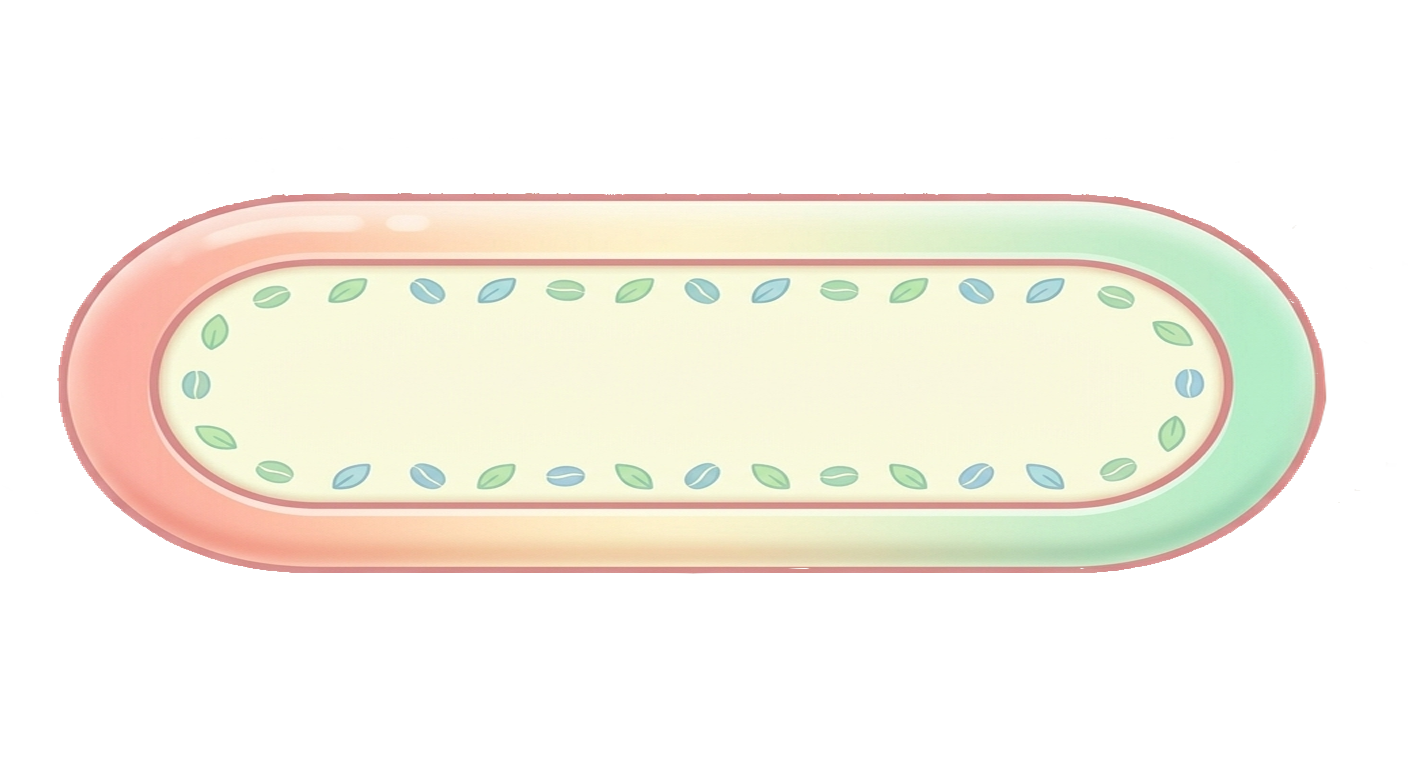
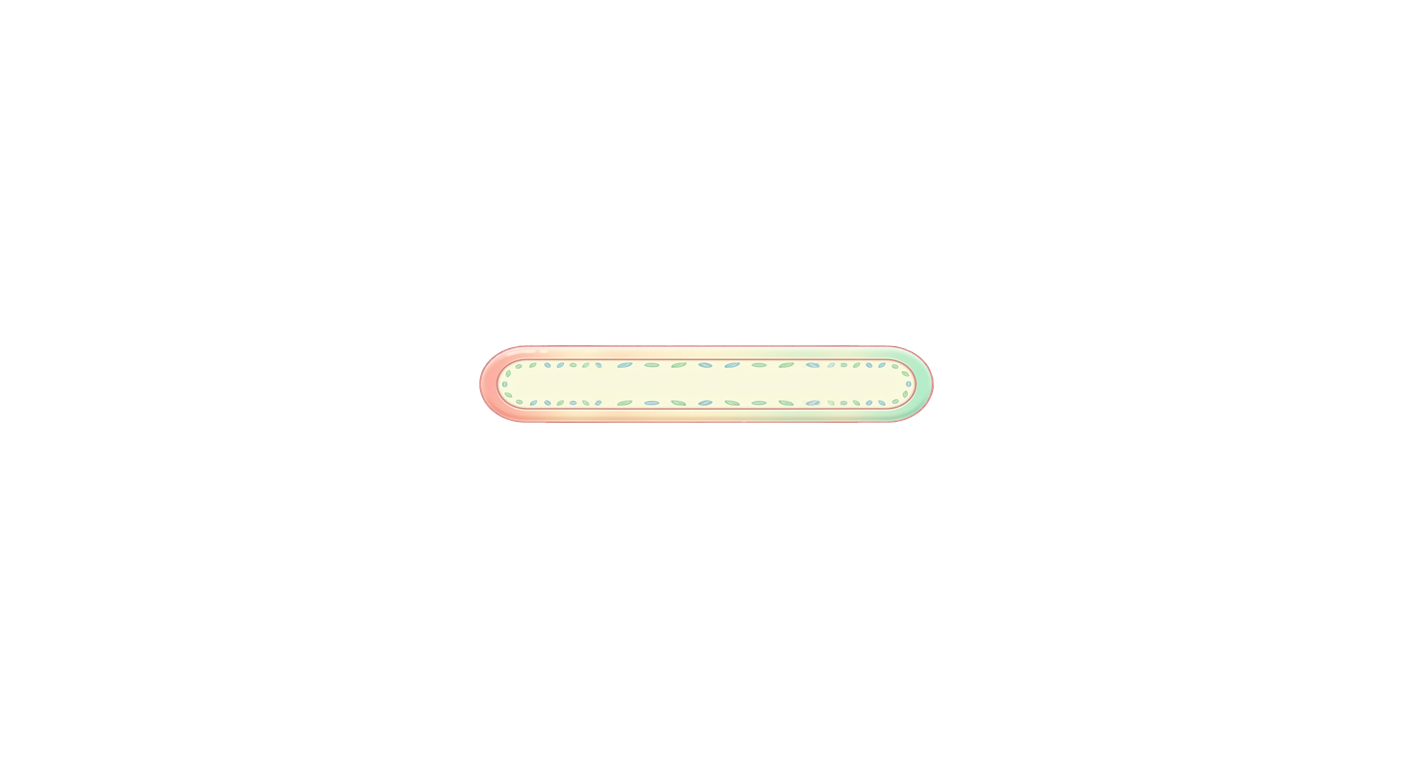
fix: botões + corações

diff --git a/script.js b/script.js
@@ -83,20 +83,28 @@ function desenharCoracao(x, y, tamanho) {
     push();
     translate(x, y);
     
-    // metade esquerda do coração
-    beginShape();
-    vertex(0, -tamanho * 0.25);
-    bezierVertex(-tamanho * 0.5, -tamanho * 0.75, -tamanho, -tamanho * 0.25, -tamanho * 0.05, tamanho * 0.45);
-    vertex(0, tamanho * 0.55);
-    endShape(CLOSE);
+    noStroke(); 
+    for (let i = 0; i < 2; i++) {
+        beginShape();
+        vertex(0, -tamanho * 0.25);
+        bezierVertex(-tamanho * 0.5, -tamanho * 0.75, -tamanho, -tamanho * 0.25, -tamanho * 0.05, tamanho * 0.45);
+        vertex(0, tamanho * 0.55);
+        endShape(CLOSE);
+        scale(-1, 1);
+    }
     
-    // metade direita espelhada no eixo X
-    scale(-1, 1);
-    beginShape();
-    vertex(0, -tamanho * 0.25);
-    bezierVertex(-tamanho * 0.5, -tamanho * 0.75, -tamanho, -tamanho * 0.25, -tamanho * 0.05, tamanho * 0.45);
-    vertex(0, tamanho * 0.55);
-    endShape(CLOSE);
+    noFill();
+    stroke('#4A3526');
+    strokeWeight(2.5);
+    
+    for (let i = 0; i < 2; i++) {
+        beginShape();
+        vertex(0, -tamanho * 0.25);
+        bezierVertex(-tamanho * 0.5, -tamanho * 0.75, -tamanho, -tamanho * 0.25, -tamanho * 0.05, tamanho * 0.45);
+        vertex(0, tamanho * 0.55);
+        endShape();
+        scale(-1, 1);
+    }
     
     pop();
 }
@@ -631,7 +639,6 @@ class MotorJogo {
         pop();
         desenharTexto(`PONTOS: ${this.pontuacao}`, 170, height - 80, 28);
 
-        // corações2, vou ajustar mais tarde pq fiz a funçao
         for (let i = 0; i < 5; i++) {
             if (i < this.vidas) {
                 fill('#ff2a4b'); 
@@ -748,9 +755,10 @@ class MotorJogo {
 
     desenharBotoesInterface() {
         push();
-        imageMode(CORNER);
+        imageMode(CENTER);
         for (let i = 0; i < this.botoes.length; i++) {
             let b = this.botoes[i];
+            
             let focoMouse = (mouseX > b.x && mouseX < b.x + b.w && mouseY > b.y && mouseY < b.y + b.h);
             
             if (focoMouse && tint) {
@@ -759,8 +767,10 @@ class MotorJogo {
                 noTint();
             }
             
-            image(imgBotao, b.x, b.y, b.w, b.h);
-            desenharTexto(b.texto, b.x + b.w / 2, b.y + b.h / 2, 24);
+            let centroX = b.x + b.w / 2;
+            let centroY = b.y + b.h / 2;
+            image(imgBotao, centroX, centroY); 
+            desenharTexto(b.texto, centroX, centroY, 24);
         }
         pop();
     }